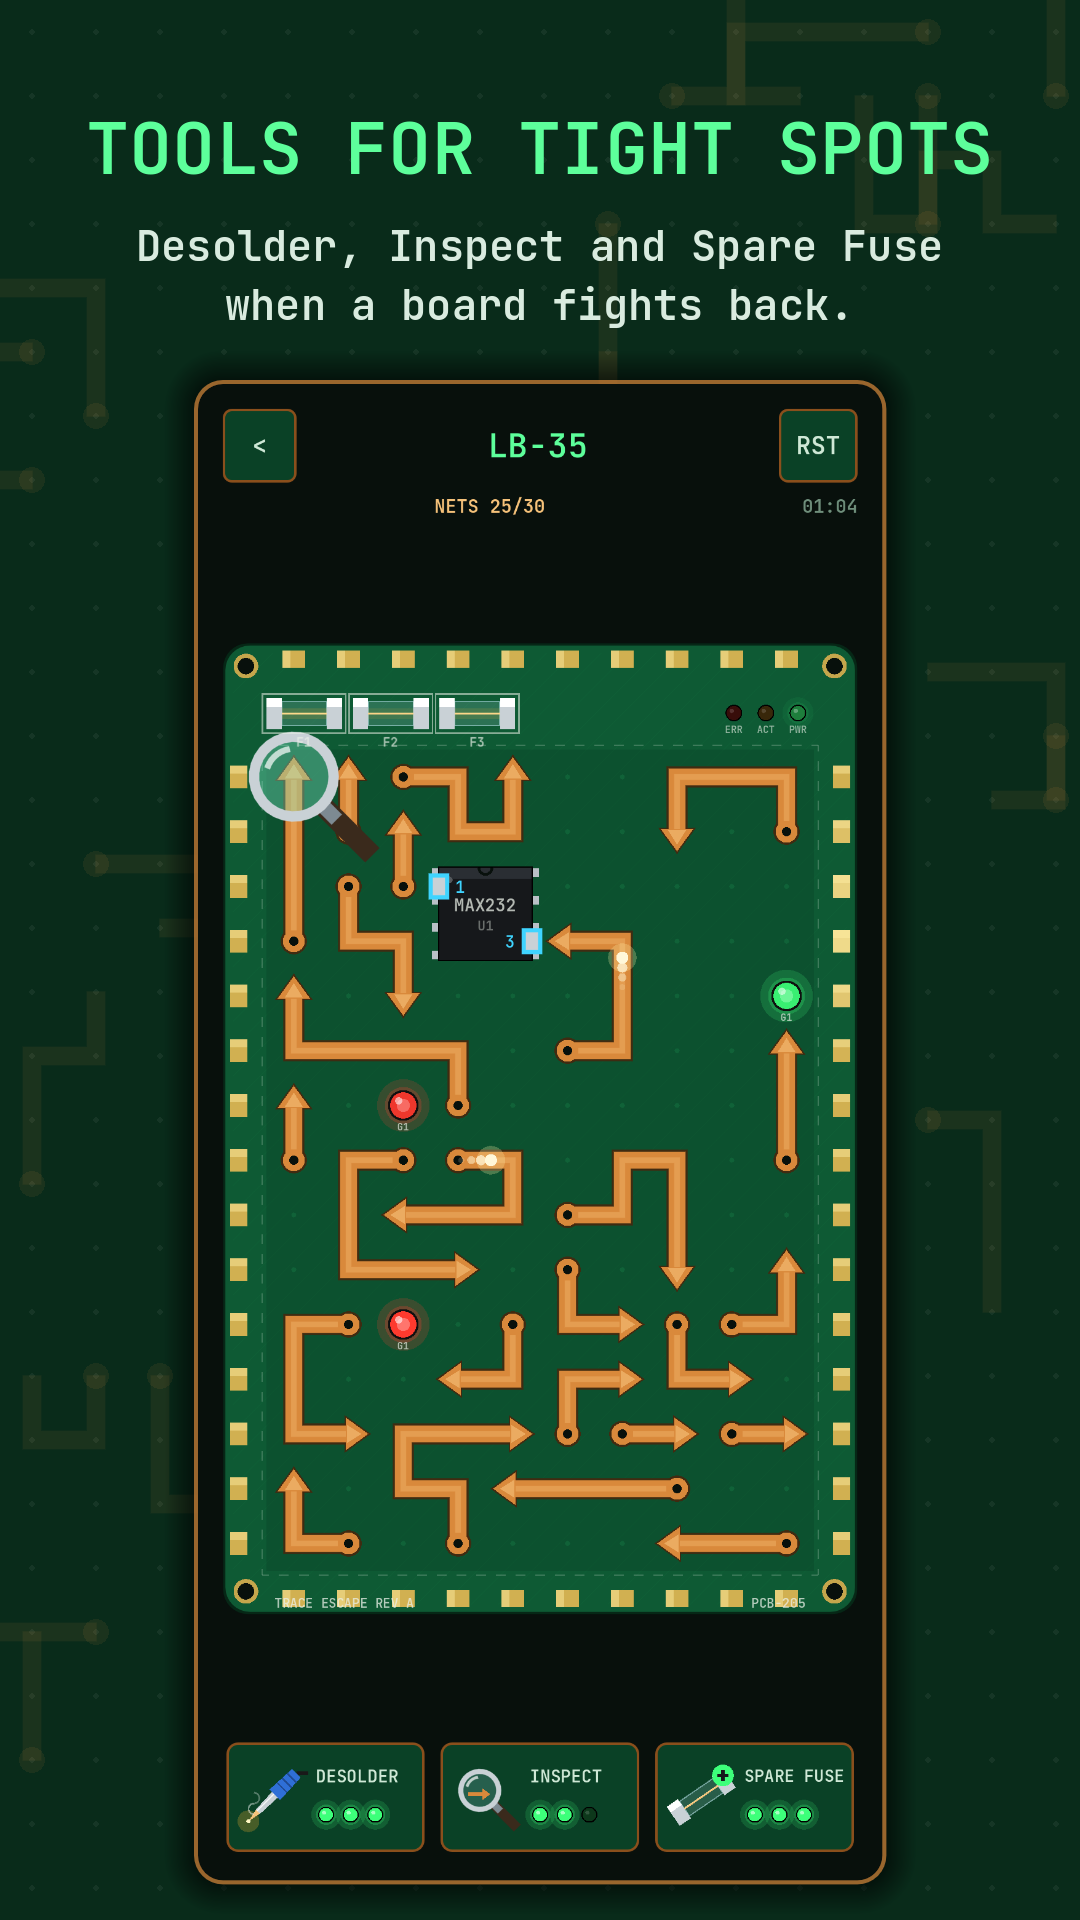
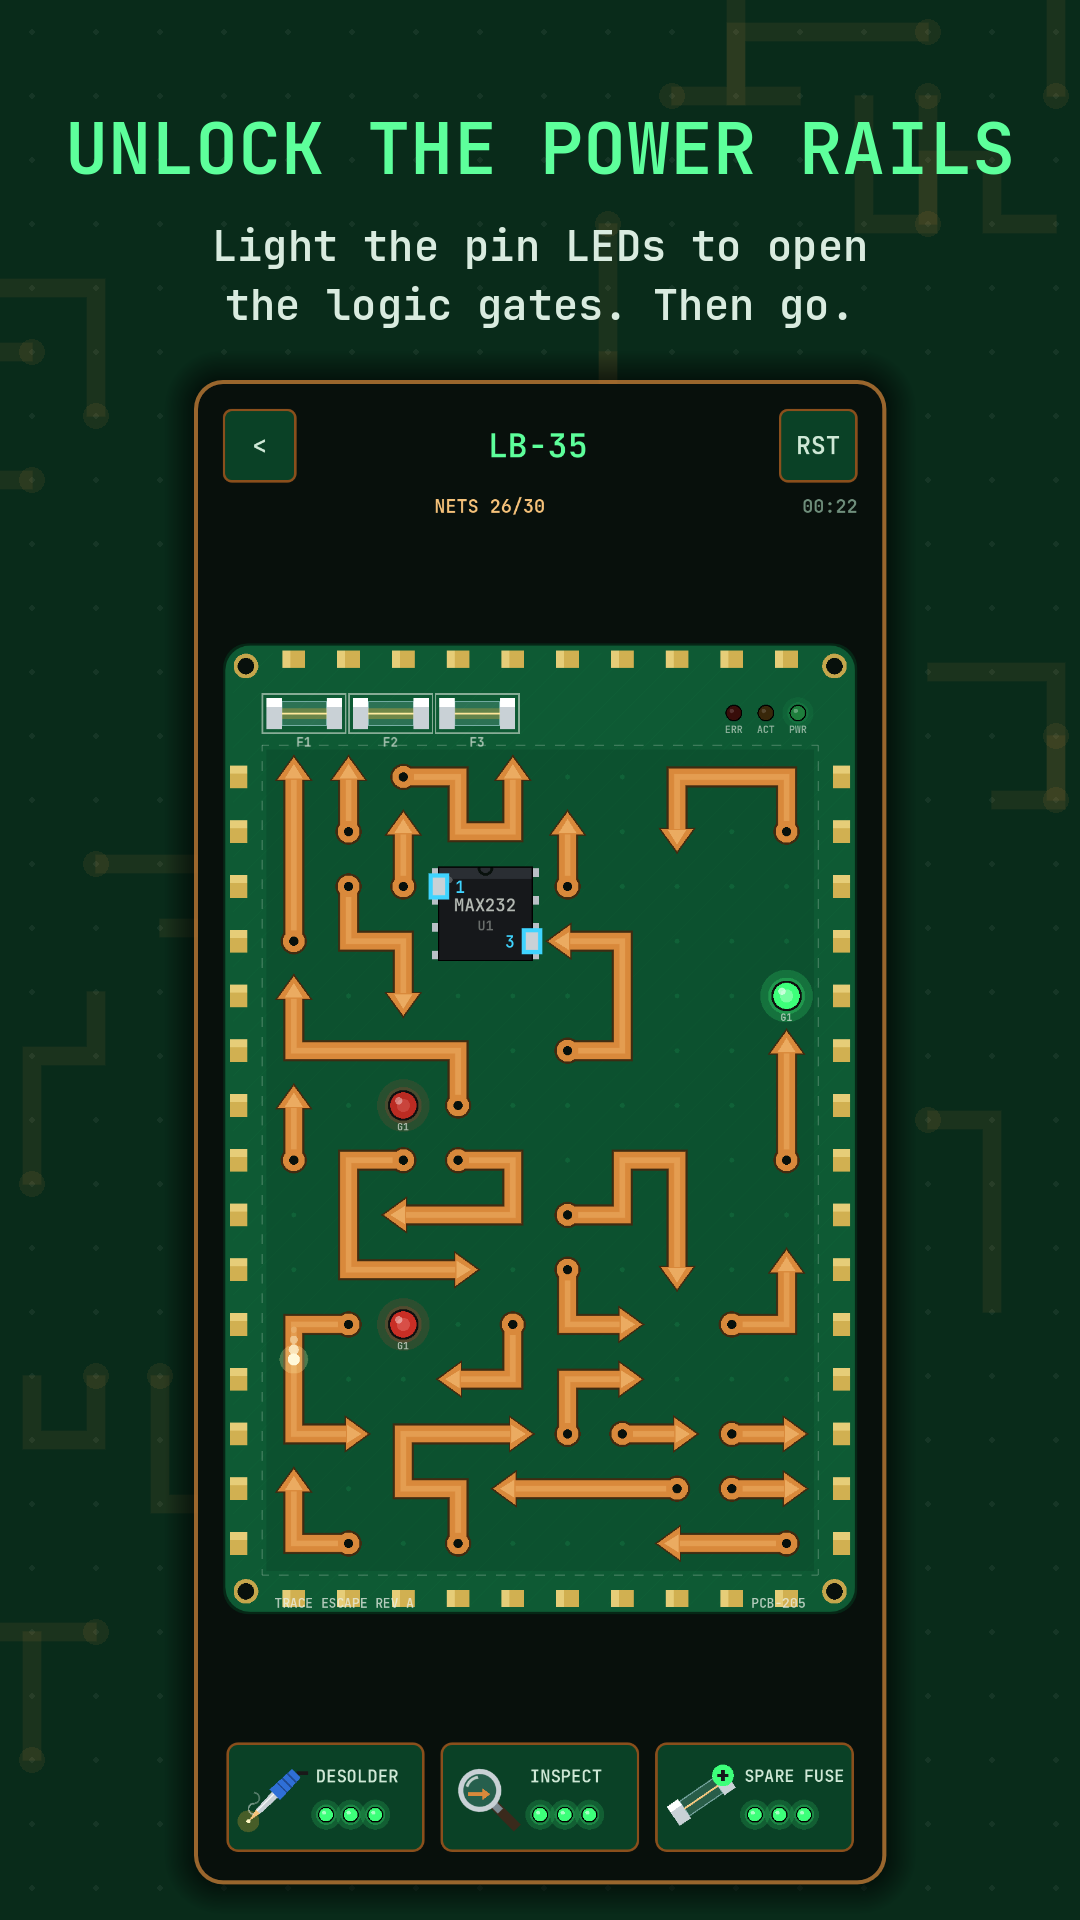
Trace Escape: 1.3.0 screenshots, with the IC pin pair shot
Seven store screenshots from 1.3.0, adding "Signals through the chips"
(a trace into one colored pin and out of its partner) as the second.

diff --git a/traceescape/index.html b/traceescape/index.html
@@ -48,11 +48,12 @@ the whole board to pass QC.</p>
 
 <div class="shots">
   <img src="images/screenshot_1.png" alt="Slide every trace off: a Logic Board board mid-solve, a trace escaping along its arrow" width="1080" height="1920" loading="lazy">
-  <img src="images/screenshot_2.png" alt="Mind the shorts: a blocked trace shorts and blows a fuse" width="1080" height="1920" loading="lazy">
-  <img src="images/screenshot_3.png" alt="Unlock the power rails: a locked rail's gate pins ripple to show what's still needed" width="1080" height="1920" loading="lazy">
-  <img src="images/screenshot_4.png" alt="Tools for tight spots: the Inspect magnifier finds a trace that can leave" width="1080" height="1920" loading="lazy">
-  <img src="images/screenshot_5.png" alt="600 boards in 9 packs: the Board Pack Unlocked splash" width="1080" height="1920" loading="lazy">
-  <img src="images/screenshot_6.png" alt="A new build every day: the main menu" width="1080" height="1920" loading="lazy">
+  <img src="images/screenshot_2.png" alt="Signals through the chips: a trace goes into one colored IC pin and comes out of its partner" width="1080" height="1920" loading="lazy">
+  <img src="images/screenshot_3.png" alt="Mind the shorts: a blocked trace shorts and blows a fuse" width="1080" height="1920" loading="lazy">
+  <img src="images/screenshot_4.png" alt="Unlock the power rails: a locked rail's gate pins ripple to show what's still needed" width="1080" height="1920" loading="lazy">
+  <img src="images/screenshot_5.png" alt="Tools for tight spots: the Inspect magnifier finds a trace that can leave" width="1080" height="1920" loading="lazy">
+  <img src="images/screenshot_6.png" alt="600 boards in 9 packs: the Board Pack Unlocked splash" width="1080" height="1920" loading="lazy">
+  <img src="images/screenshot_7.png" alt="A new build every day: the main menu" width="1080" height="1920" loading="lazy">
 </div>
 
 <h2>How it works</h2>
